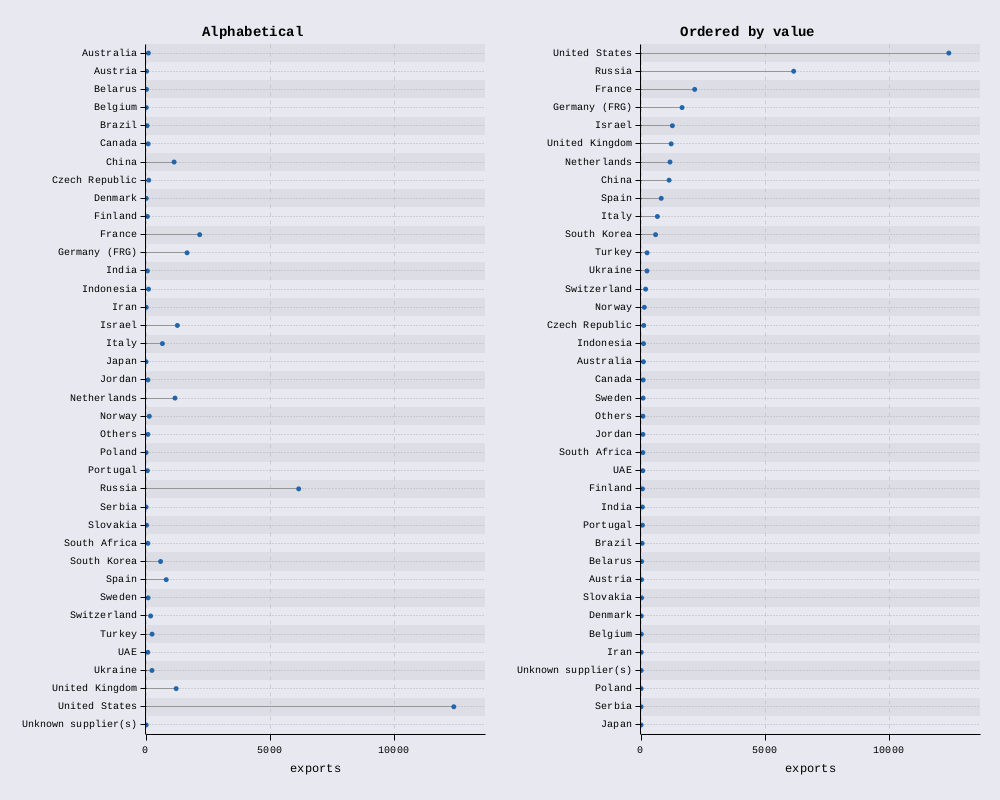
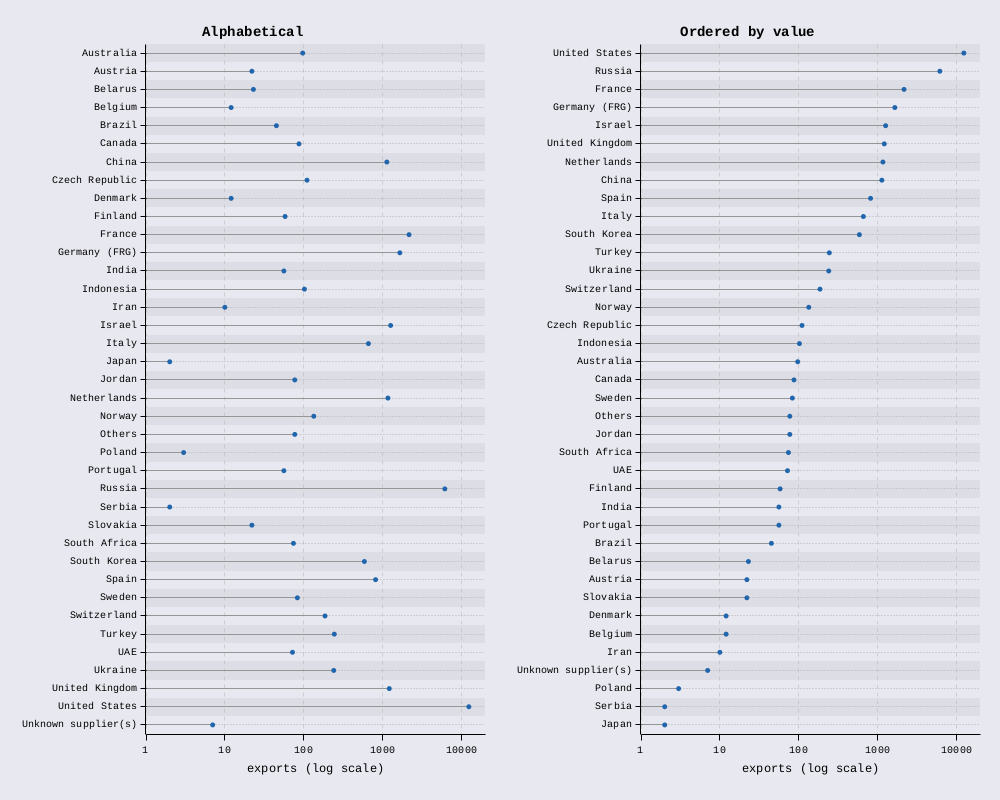
ranking - notebook - review2

diff --git a/docs/use_cases.ranking.html b/docs/use_cases.ranking.html
@@ -937,18 +937,19 @@ pre > code.sourceCode > span > a:first-child::before { text-decoration: underlin
 <h2 data-number="4.7" class="anchored" data-anchor-id="caveats"><span class="header-section-number">4.7</span> Caveats</h2>
 <section id="order-the-data" class="level3" data-number="4.7.1">
 <h3 data-number="4.7.1" class="anchored" data-anchor-id="order-the-data"><span class="header-section-number">4.7.1</span> Order the data</h3>
-<p>Unordered categories make the reader sort them; ordered by value, the ranking is read at a glance - here all 38 countries with a value, as lollipops.</p>
+<p>Unordered categories make the reader sort them; ordered by value, the ranking is read at a glance - here all 38 countries with a value, as lollipops on a log scale (exports from 2 to 12394; the stems start at 1, as log 0 is undefined).</p>
 <p>Source: <a href="https://www.data-to-viz.com/caveat/order_data.html">data-to-viz - Order your data</a>. Data: Weapon exports by country, data-to-viz example dataset <code>7_OneCatOneNum</code> (Yan Holtz); licence: MIT (data_to_viz repository).</p>
 <div class="sourceClojure">
 <div class="code-copy-outer-scaffold"><div class="sourceCode" id="cb48"><pre class="sourceCode clojure code-with-copy"><code class="sourceCode clojure"><span id="cb48-1"><a href="#cb48-1" aria-hidden="true" tabindex="-1"></a>(plot/render-image</span>
 <span id="cb48-2"><a href="#cb48-2" aria-hidden="true" tabindex="-1"></a> (plot/arrange</span>
-<span id="cb48-3"><a href="#cb48-3" aria-hidden="true" tabindex="-1"></a>  (<span class="kw">vec</span> (<span class="kw">for</span> [[title scales] [[<span class="st">"Alphabetical"</span> {}] [<span class="st">"Ordered by value"</span> {<span class="at">:y</span> {<span class="at">:domain</span> (ascending weapons)}}]]]</span>
-<span id="cb48-4"><a href="#cb48-4" aria-hidden="true" tabindex="-1"></a>         {<span class="at">:data</span> (alphabetical weapons) <span class="at">:mapping</span> {<span class="at">:x</span> <span class="at">:value</span> <span class="at">:y</span> <span class="at">:country</span>} <span class="at">:scales</span> scales</span>
-<span id="cb48-5"><a href="#cb48-5" aria-hidden="true" tabindex="-1"></a>          <span class="at">:theme</span> {<span class="at">:axis</span> {<span class="at">:y</span> {<span class="at">:label-gap</span> <span class="dv">1</span>}}}</span>
-<span id="cb48-6"><a href="#cb48-6" aria-hidden="true" tabindex="-1"></a>          <span class="at">:charts</span> [(chart/segment {<span class="at">:xend</span> <span class="dv">0</span> <span class="at">:color</span> [<span class="dv">150</span> <span class="dv">150</span> <span class="dv">150</span>]}) (chart/scatter {<span class="at">:size</span> <span class="dv">5</span> <span class="at">:color</span> [<span class="dv">33</span> <span class="dv">102</span> <span class="dv">172</span>]})]</span>
-<span id="cb48-7"><a href="#cb48-7" aria-hidden="true" tabindex="-1"></a>          <span class="at">:labels</span> {<span class="at">:title</span> title <span class="at">:x</span> <span class="st">"exports"</span> <span class="at">:y</span> <span class="va">nil</span>}}))</span>
-<span id="cb48-8"><a href="#cb48-8" aria-hidden="true" tabindex="-1"></a>  {<span class="at">:columns</span> <span class="dv">2</span>})</span>
-<span id="cb48-9"><a href="#cb48-9" aria-hidden="true" tabindex="-1"></a> {<span class="at">:width</span> <span class="dv">1000</span> <span class="at">:height</span> <span class="dv">800</span>})</span></code></pre></div><button title="Copy to Clipboard" class="code-copy-button"><i class="bi"></i></button></div>
+<span id="cb48-3"><a href="#cb48-3" aria-hidden="true" tabindex="-1"></a>  (<span class="kw">vec</span> (<span class="kw">for</span> [[title y-scale] [[<span class="st">"Alphabetical"</span> {}] [<span class="st">"Ordered by value"</span> {<span class="at">:domain</span> (ascending weapons)}]]]</span>
+<span id="cb48-4"><a href="#cb48-4" aria-hidden="true" tabindex="-1"></a>         {<span class="at">:data</span> (alphabetical weapons) <span class="at">:mapping</span> {<span class="at">:x</span> <span class="at">:value</span> <span class="at">:y</span> <span class="at">:country</span>}</span>
+<span id="cb48-5"><a href="#cb48-5" aria-hidden="true" tabindex="-1"></a>          <span class="at">:scales</span> {<span class="at">:x</span> {<span class="at">:kind</span> <span class="at">:log</span>} <span class="at">:y</span> y-scale}</span>
+<span id="cb48-6"><a href="#cb48-6" aria-hidden="true" tabindex="-1"></a>          <span class="at">:theme</span> {<span class="at">:axis</span> {<span class="at">:y</span> {<span class="at">:label-gap</span> <span class="dv">1</span>}}}</span>
+<span id="cb48-7"><a href="#cb48-7" aria-hidden="true" tabindex="-1"></a>          <span class="at">:charts</span> [(chart/segment {<span class="at">:xend</span> <span class="dv">1</span> <span class="at">:color</span> [<span class="dv">150</span> <span class="dv">150</span> <span class="dv">150</span>]}) (chart/scatter {<span class="at">:size</span> <span class="dv">5</span> <span class="at">:color</span> [<span class="dv">33</span> <span class="dv">102</span> <span class="dv">172</span>]})]</span>
+<span id="cb48-8"><a href="#cb48-8" aria-hidden="true" tabindex="-1"></a>          <span class="at">:labels</span> {<span class="at">:title</span> title <span class="at">:x</span> <span class="st">"exports (log scale)"</span> <span class="at">:y</span> <span class="va">nil</span>}}))</span>
+<span id="cb48-9"><a href="#cb48-9" aria-hidden="true" tabindex="-1"></a>  {<span class="at">:columns</span> <span class="dv">2</span>})</span>
+<span id="cb48-10"><a href="#cb48-10" aria-hidden="true" tabindex="-1"></a> {<span class="at">:width</span> <span class="dv">1000</span> <span class="at">:height</span> <span class="dv">800</span>})</span></code></pre></div><button title="Copy to Clipboard" class="code-copy-button"><i class="bi"></i></button></div>
 </div>
 <div class="clay-image">
 <p><img src="use_cases.ranking_files/image25.png" class="img-fluid"></p>
